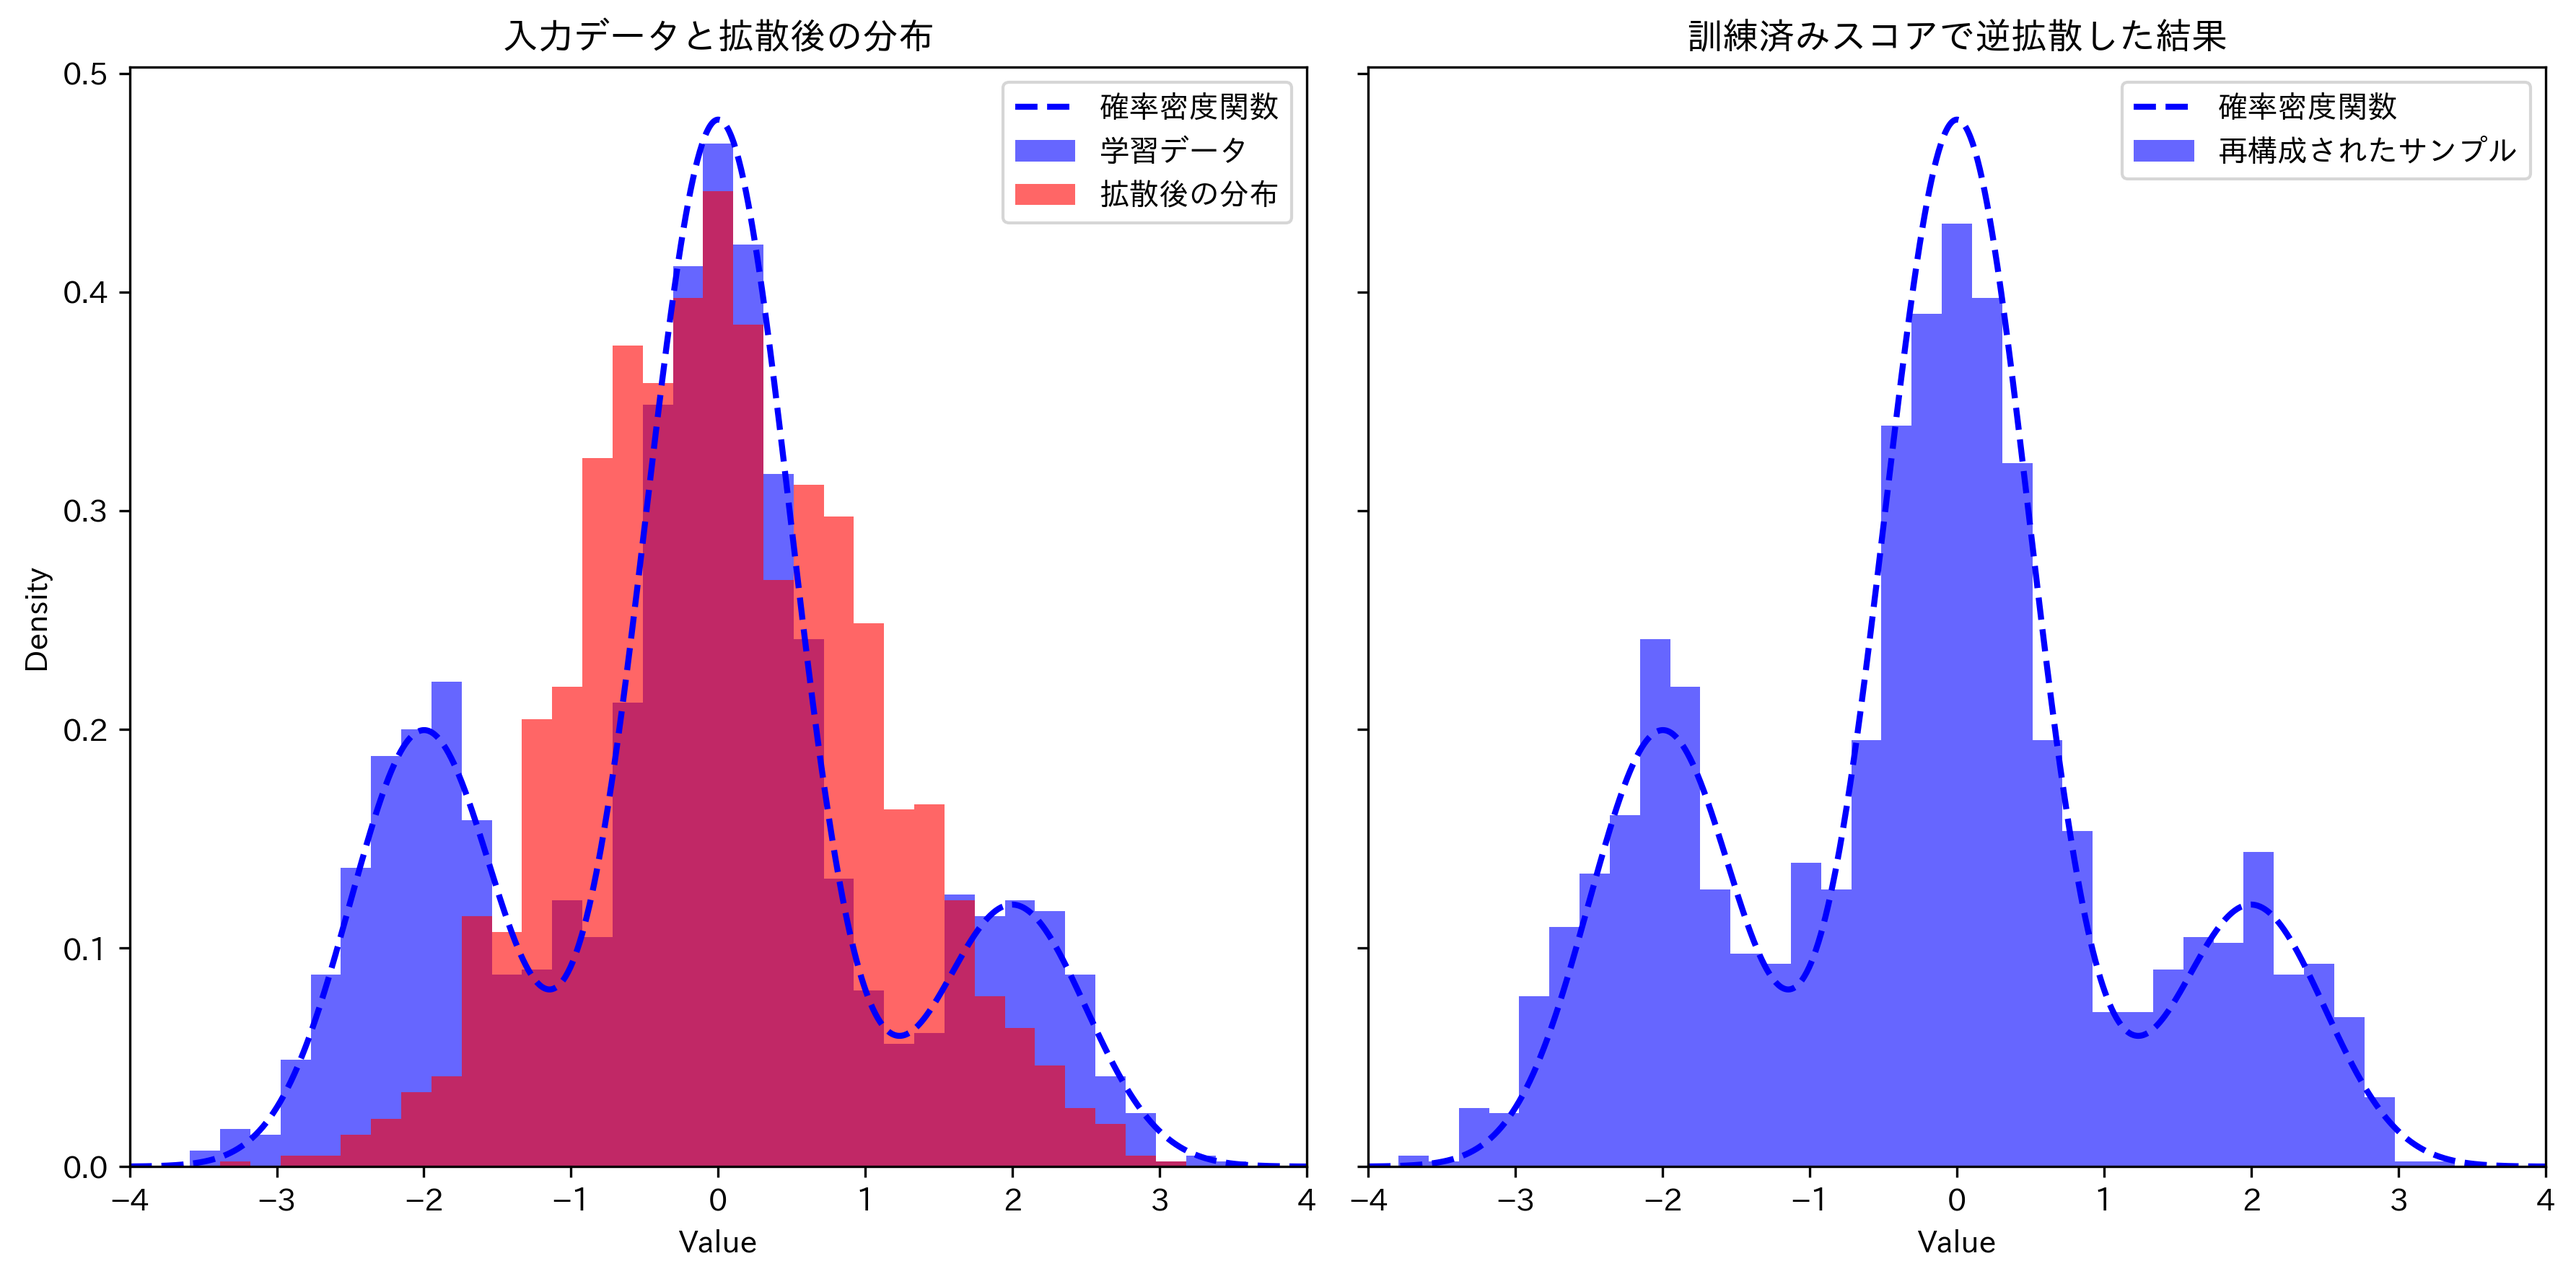
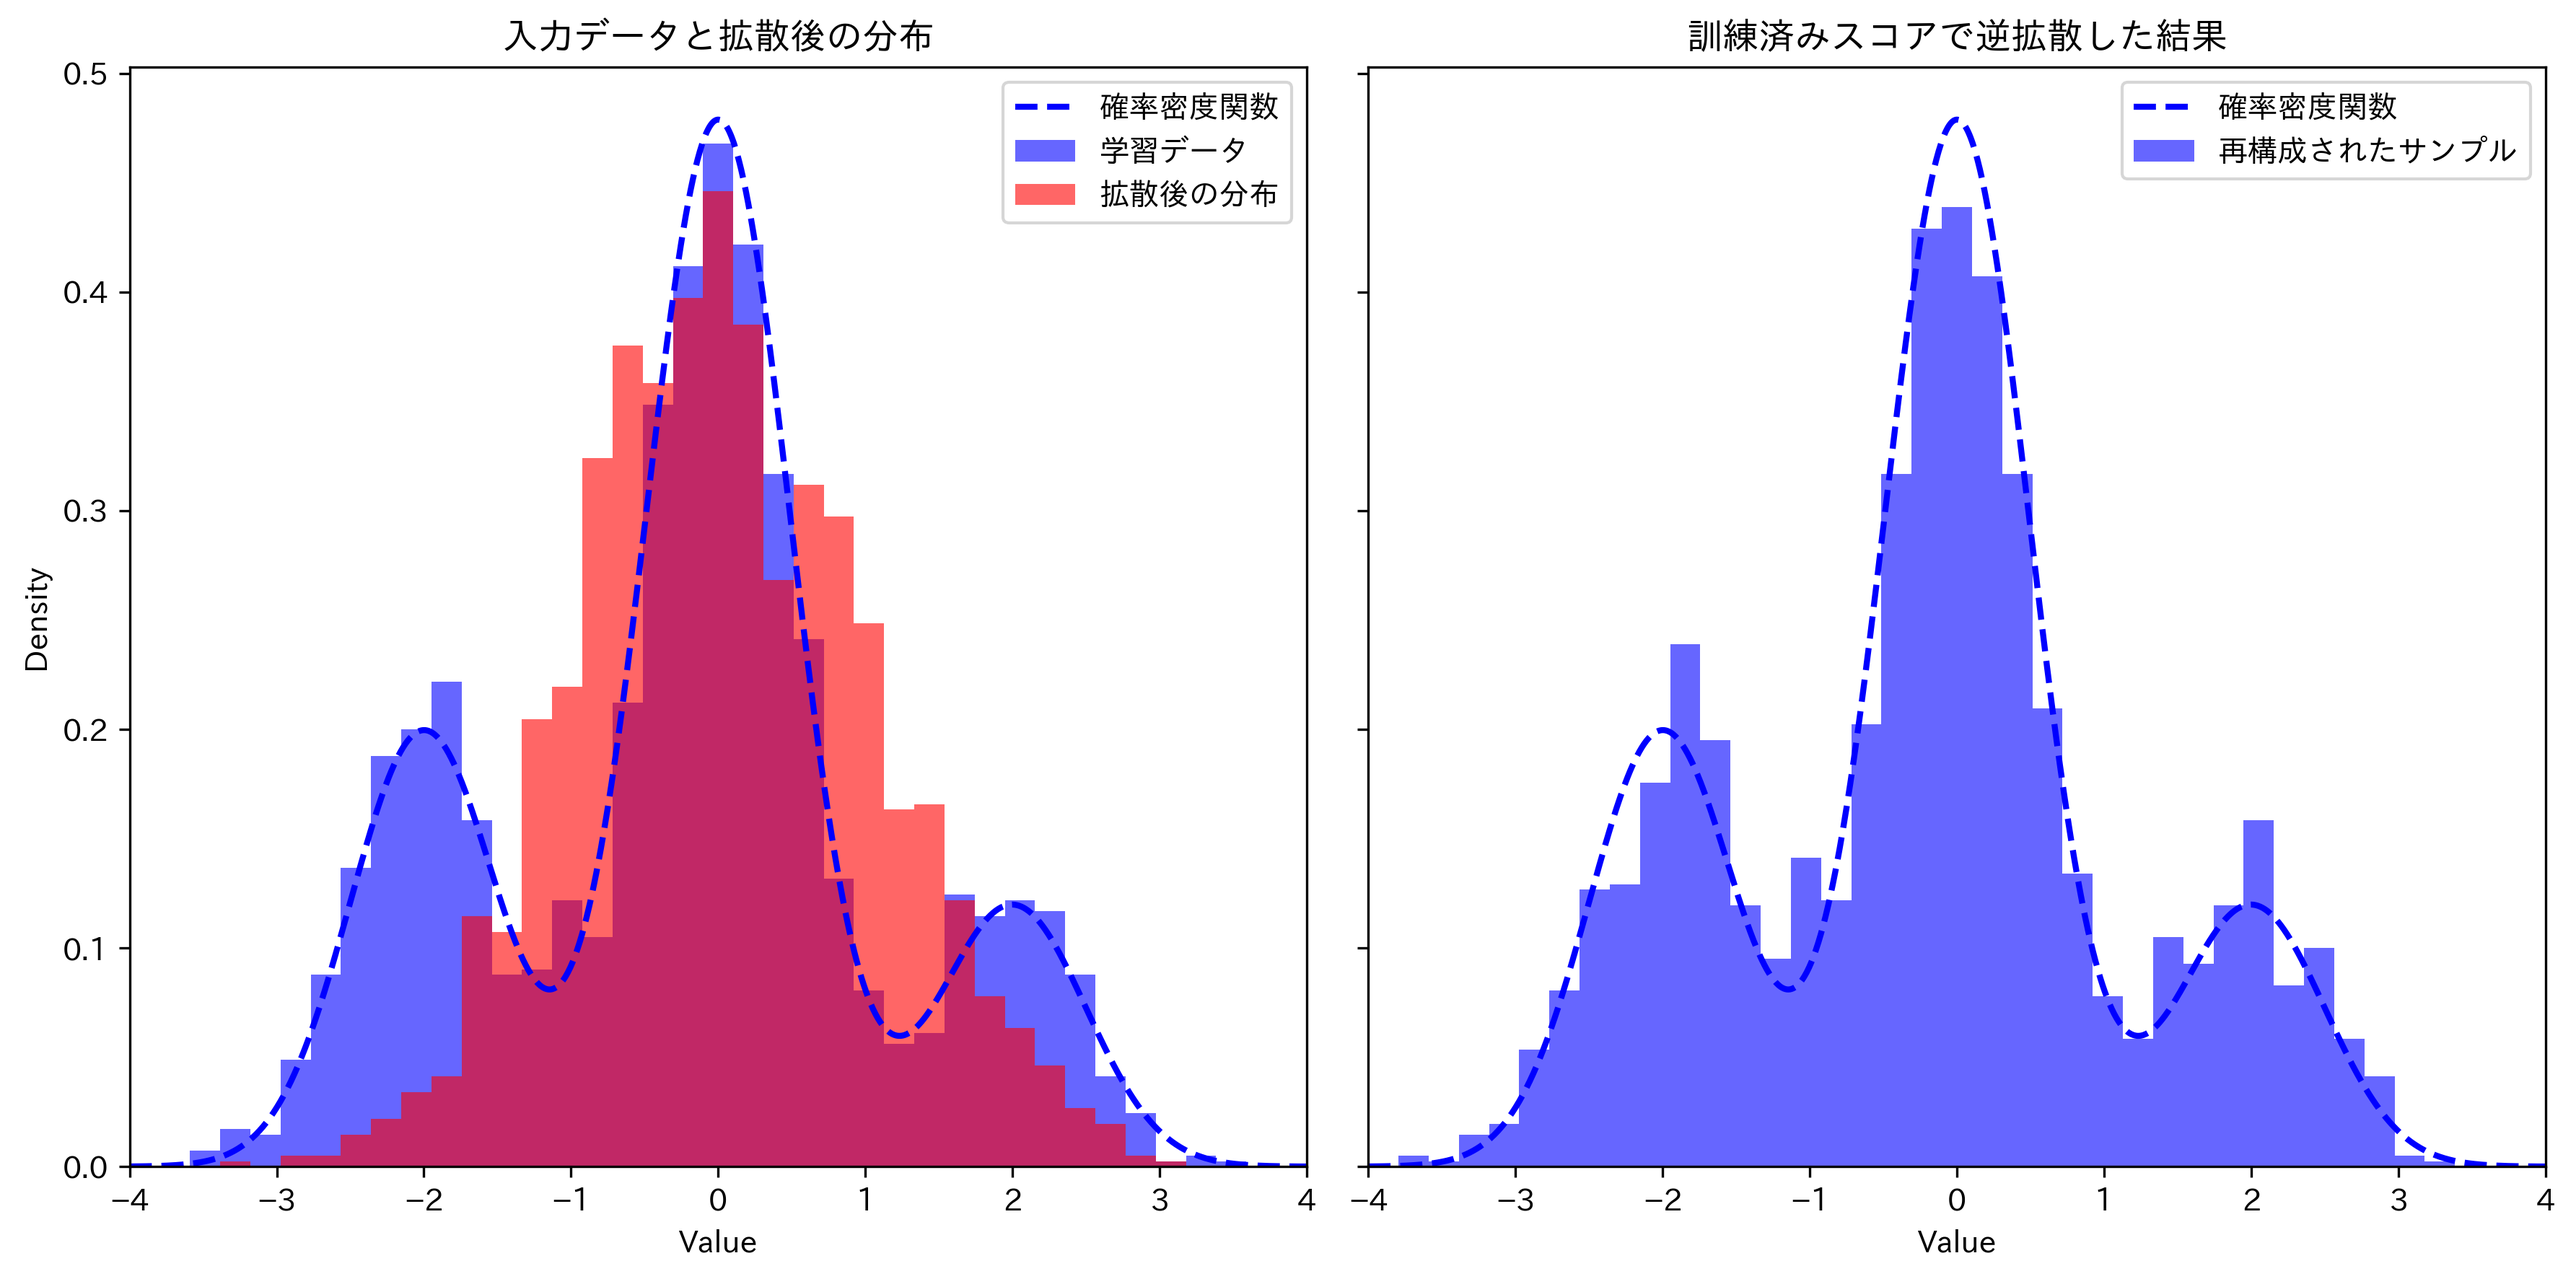
regularized ism

diff --git a/1d_dsm.py b/1d_dsm.py
@@ -1,7 +1,6 @@
 # 「入門物理学入門」の1D分布 (3峰) のスコアベース拡散モデル
 # DSM: Denoising Score Matching デノイジングスコアマッチング
 
-import typing as tp
 
 import japanize_matplotlib
 import keras
@@ -10,53 +9,10 @@ import numpy as np
 import tensorflow as tf
 from tqdm import tqdm
 
+from utils import mixed_gaussian, mixed_gaussian_pdf
+
 tf.random.set_seed(42)
 np.random.seed(42)
-
-
-def mixed_gaussian(mu_lst, sigma_lst, weight) -> tp.Callable[[int], tf.Tensor]:
-    """
-    混合ガウス分布に従う乱数を生成する関数
-    """
-    length = len(mu_lst)
-    assert length == len(sigma_lst) == len(weight)
-    mu_lst = np.array(mu_lst, dtype=np.float32)
-    sigma_lst = np.array(sigma_lst, dtype=np.float32)
-    weight = np.array(weight, dtype=np.float32)
-
-    def random_variable(n_samples: int) -> tf.Tensor:
-        index = np.random.choice(length, size=n_samples, p=weight)
-        mu = mu_lst[index]
-        sigma = sigma_lst[index]
-        rv = np.random.normal(mu, sigma, size=n_samples)
-        return tf.convert_to_tensor(rv[:, np.newaxis], dtype=tf.float32)
-
-    return random_variable
-
-
-def mixed_gaussian_pdf(
-    mu_lst, sigma_lst, weight
-) -> tp.Callable[[np.ndarray], np.ndarray]:
-    """
-    混合ガウス分布の確率密度関数を計算する関数
-    """
-    length = len(mu_lst)
-    assert length == len(sigma_lst) == len(weight)
-    mu_lst = np.array(mu_lst, dtype=np.float32)
-    sigma_lst = np.array(sigma_lst, dtype=np.float32)
-    weight = np.array(weight, dtype=np.float32)
-
-    def pdf(x: np.ndarray) -> np.ndarray:
-        pdf_values = np.zeros_like(x, dtype=np.float32)
-        for mu, sigma, w in zip(mu_lst, sigma_lst, weight):
-            pdf_values += (
-                w
-                * (1 / (sigma * np.sqrt(2 * np.pi)))
-                * np.exp(-0.5 * ((x - mu) / sigma) ** 2)
-            )
-        return pdf_values
-
-    return pdf
 
 
 def diffusion_backward(
@@ -111,7 +67,6 @@ T = beta_lst.shape[0]
 optimizer = keras.optimizers.Adam(learning_rate=0.001)
 
 # beta_lstをTensorに変換
-# beta_tensor = tf.convert_to_tensor(beta_lst, dtype=tf.float32)
 alpha_cumprod_tensor = tf.convert_to_tensor(alpha_cumprod, dtype=tf.float32)
 
 
@@ -150,9 +105,7 @@ def train_step(
         optimizer.apply_gradients(zip(gradients, score_model.trainable_variables))
 
 
-# 元のループ構造を維持して訓練
 for epoch in tqdm(range(5000), desc="Training"):
-    # 元のコードと同じデータサンプリング方法
     idx = tf.random.uniform([n_input_samples], minval=0, maxval=T, dtype=tf.int32)
     train_step(score_model, input_samples, idx, T)
 

diff --git a/1d_ism_regularized.py b/1d_ism_regularized.py
@@ -1,5 +1,5 @@
 # 「入門物理学入門」の1D分布 (3峰) のスコアベース拡散モデル
-# ISM: Implicit Score Matching 暗黙的スコアマッチング
+# ISM: Implicit Score Matching 暗黙的スコアマッチング (正則化あり)
 
 
 import japanize_matplotlib
@@ -77,6 +77,7 @@ input_samples = mixed_gaussian(mu_lst, sigma_lst, weight)(n_input_samples)
 # 拡散過程のパラメータ
 beta_lst = tf.linspace(0.01, 0.1, 100).numpy()  # numpy配列に変換
 T = beta_lst.shape[0]
+regularization_strength = 1e-2  # 正則化強度
 
 # 拡散過程の前進ステップを実行
 print("Running forward diffusion process...")
@@ -103,7 +104,11 @@ def train_step(score_model: keras.Model, xt_tensor: tf.Tensor) -> None:
 
         # スコアマッチングの損失
         # J(θ) = E[ tr(∇_x s(x,t)) + (1/2) * ||s(x,t)||^2 ]
-        loss_terms = score_divergence + 0.5 * score_norm_squared
+        loss_terms = (
+            score_divergence
+            + 0.5 * score_norm_squared
+            + regularization_strength * tf.square(predicted_score)
+        )
         loss = tf.reduce_mean(loss_terms)
 
         # persistent=True のテープは手動で解放する必要がある
@@ -135,10 +140,10 @@ for epoch in tqdm(range(5000), desc="Training"):
 
 
 # モデルの保存
-score_model.save("models/1d_ism_score_model.keras")
+score_model.save("models/1d_ism_regularized_score_model.keras")
 
 # モデルの読み込み
-loaded_model = keras.models.load_model("models/1d_ism_score_model.keras")
+loaded_model = keras.models.load_model("models/1d_ism_regularized_score_model.keras")
 
 # 最後のステップのデータを取得
 # x_fin = np.array(x_lst)[-1].reshape(-1, 1)
@@ -197,5 +202,5 @@ axes[1].legend(loc="upper right")
 
 plt.tight_layout()
 # plt.show()
-plt.savefig("figures/1d_ism_result.png", dpi=300, bbox_inches="tight")
+plt.savefig("figures/1d_ism_regularized_result.png", dpi=300, bbox_inches="tight")
 plt.close(fig)

diff --git a/utils.py b/utils.py
@@ -1,0 +1,49 @@
+import typing as tp
+
+import numpy as np
+import tensorflow as tf
+
+
+def mixed_gaussian(mu_lst, sigma_lst, weight) -> tp.Callable[[int], tf.Tensor]:
+    """
+    混合ガウス分布に従う乱数を生成する関数
+    """
+    length = len(mu_lst)
+    assert length == len(sigma_lst) == len(weight)
+    mu_lst = np.array(mu_lst, dtype=np.float32)
+    sigma_lst = np.array(sigma_lst, dtype=np.float32)
+    weight = np.array(weight, dtype=np.float32)
+
+    def random_variable(n_samples: int) -> tf.Tensor:
+        index = np.random.choice(length, size=n_samples, p=weight)
+        mu = mu_lst[index]
+        sigma = sigma_lst[index]
+        rv = np.random.normal(mu, sigma, size=n_samples)
+        return tf.convert_to_tensor(rv[:, np.newaxis], dtype=tf.float32)
+
+    return random_variable
+
+
+def mixed_gaussian_pdf(
+    mu_lst, sigma_lst, weight
+) -> tp.Callable[[np.ndarray], np.ndarray]:
+    """
+    混合ガウス分布の確率密度関数を計算する関数
+    """
+    length = len(mu_lst)
+    assert length == len(sigma_lst) == len(weight)
+    mu_lst = np.array(mu_lst, dtype=np.float32)
+    sigma_lst = np.array(sigma_lst, dtype=np.float32)
+    weight = np.array(weight, dtype=np.float32)
+
+    def pdf(x: np.ndarray) -> np.ndarray:
+        pdf_values = np.zeros_like(x, dtype=np.float32)
+        for mu, sigma, w in zip(mu_lst, sigma_lst, weight):
+            pdf_values += (
+                w
+                * (1 / (sigma * np.sqrt(2 * np.pi)))
+                * np.exp(-0.5 * ((x - mu) / sigma) ** 2)
+            )
+        return pdf_values
+
+    return pdf
